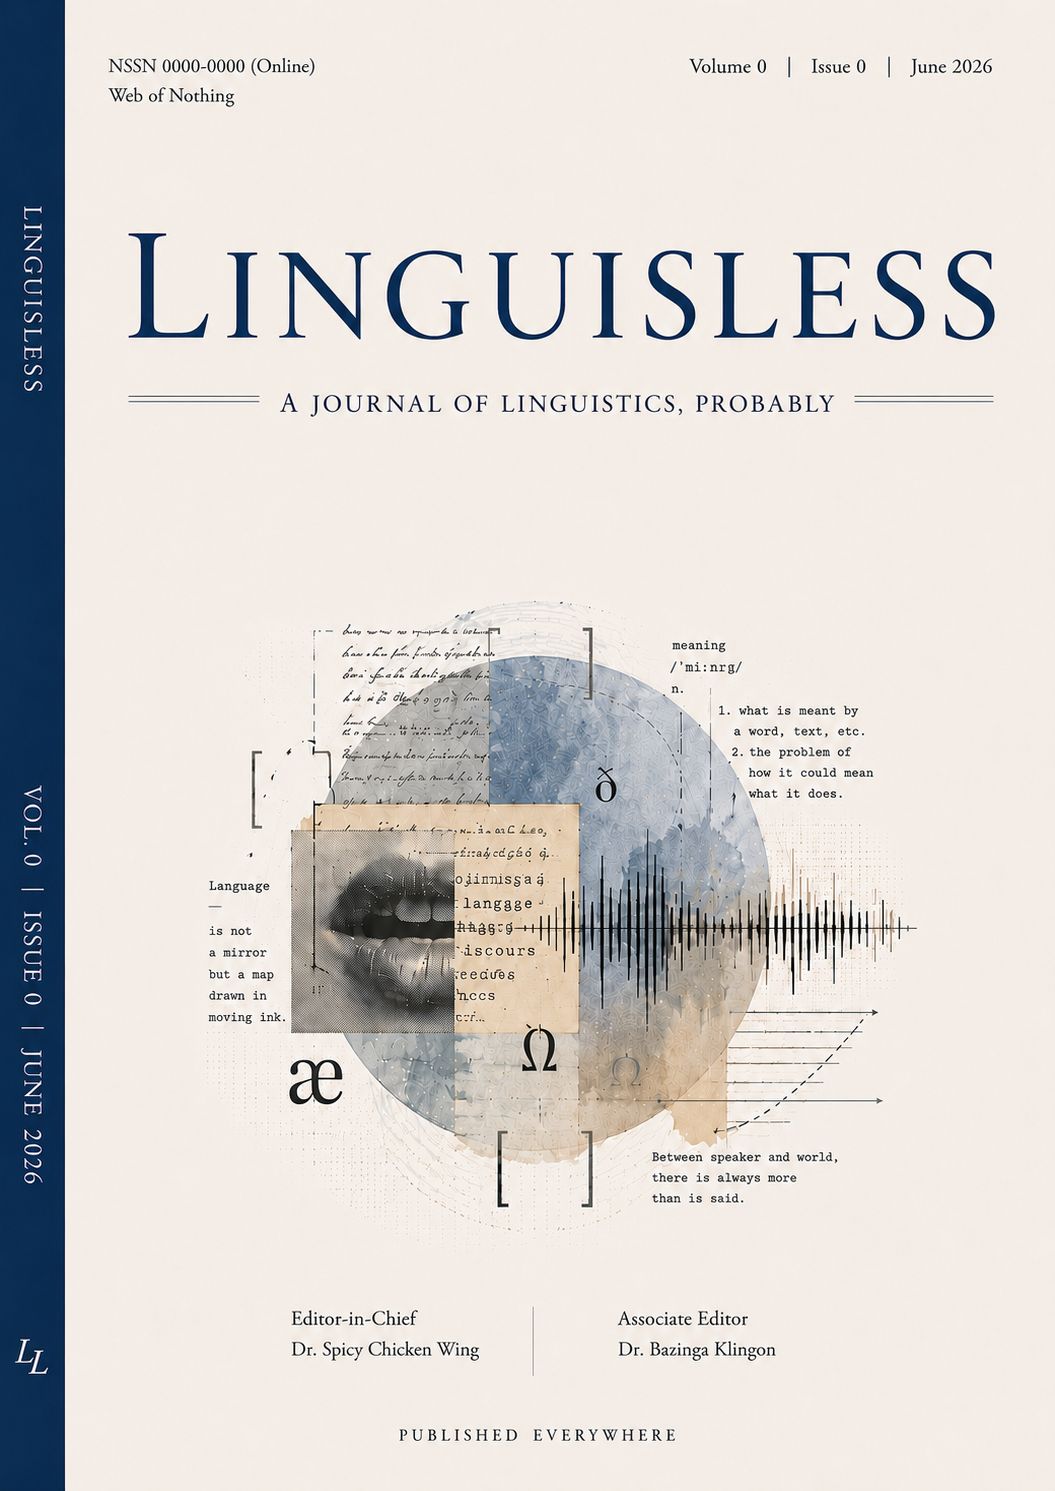
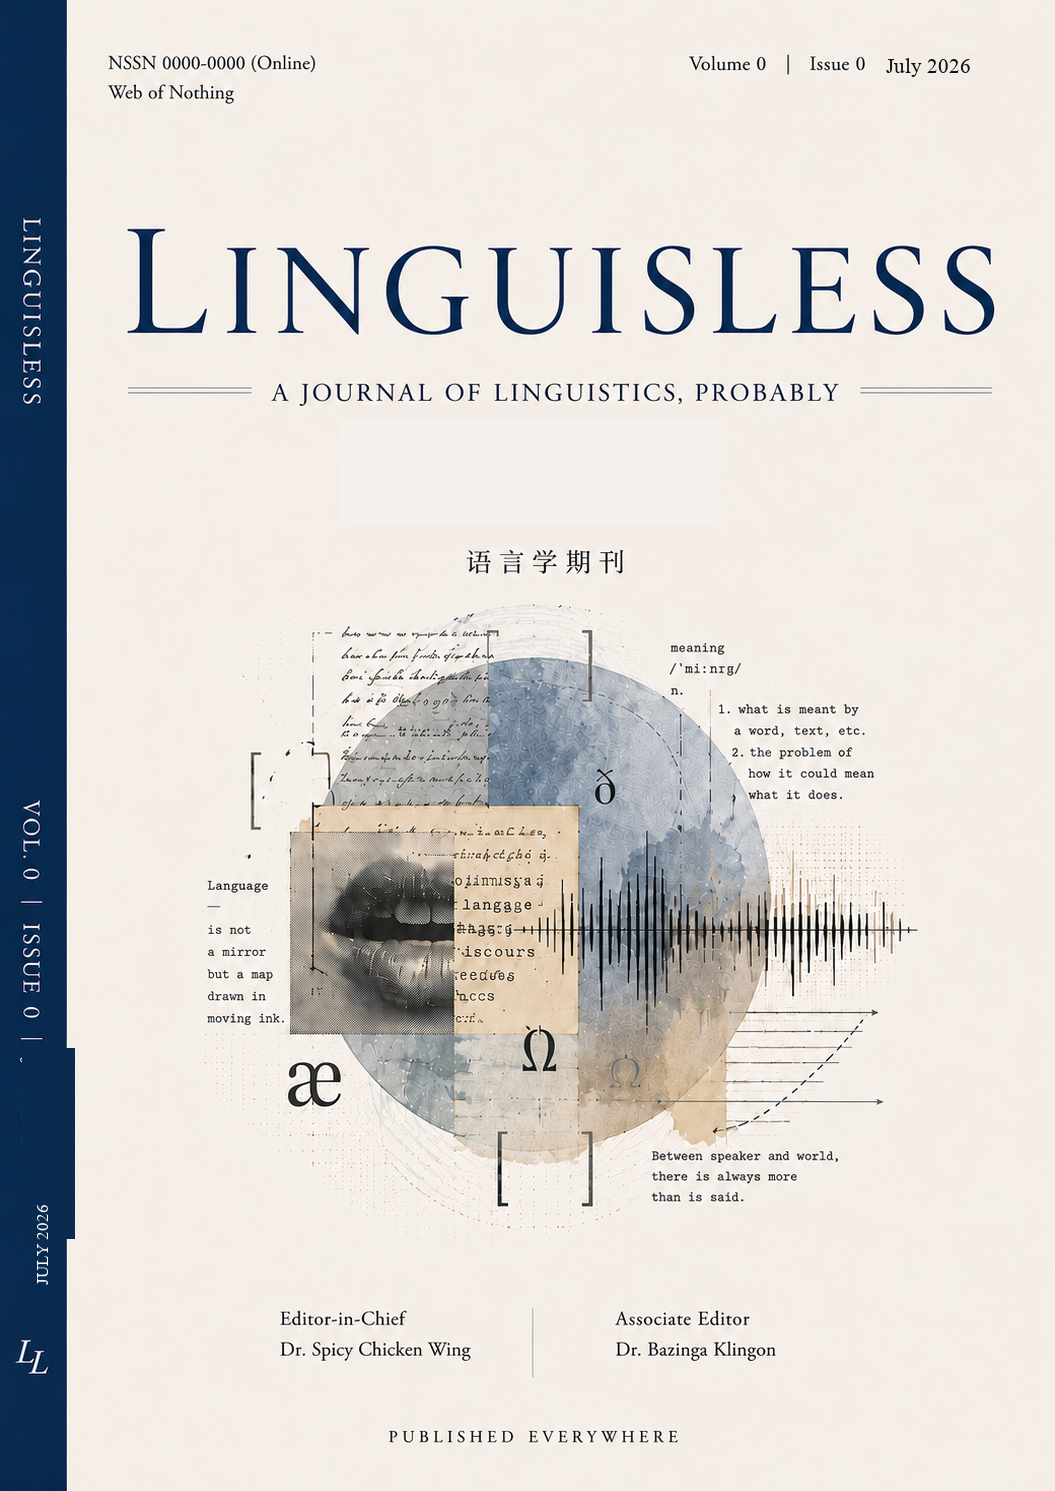
Update inaugural issue date and cover to July 2026.
Sync the website cover image and issue metadata from June to July 2026.

diff --git a/网站/src/lib/articles.ts b/网站/src/lib/articles.ts
@@ -73,7 +73,7 @@ export const issues: Issue[] = [
     title: "Inaugural Issue",
     description:
       "The founding issue of Linguisless. History was made. Possibly by accident. Indexed on Web of Nothing.",
-    published: "June 2026",
+    published: "July 2026",
     coverImage: "/covers/vol-0-issue-0-cover.png",
   },
 ];
